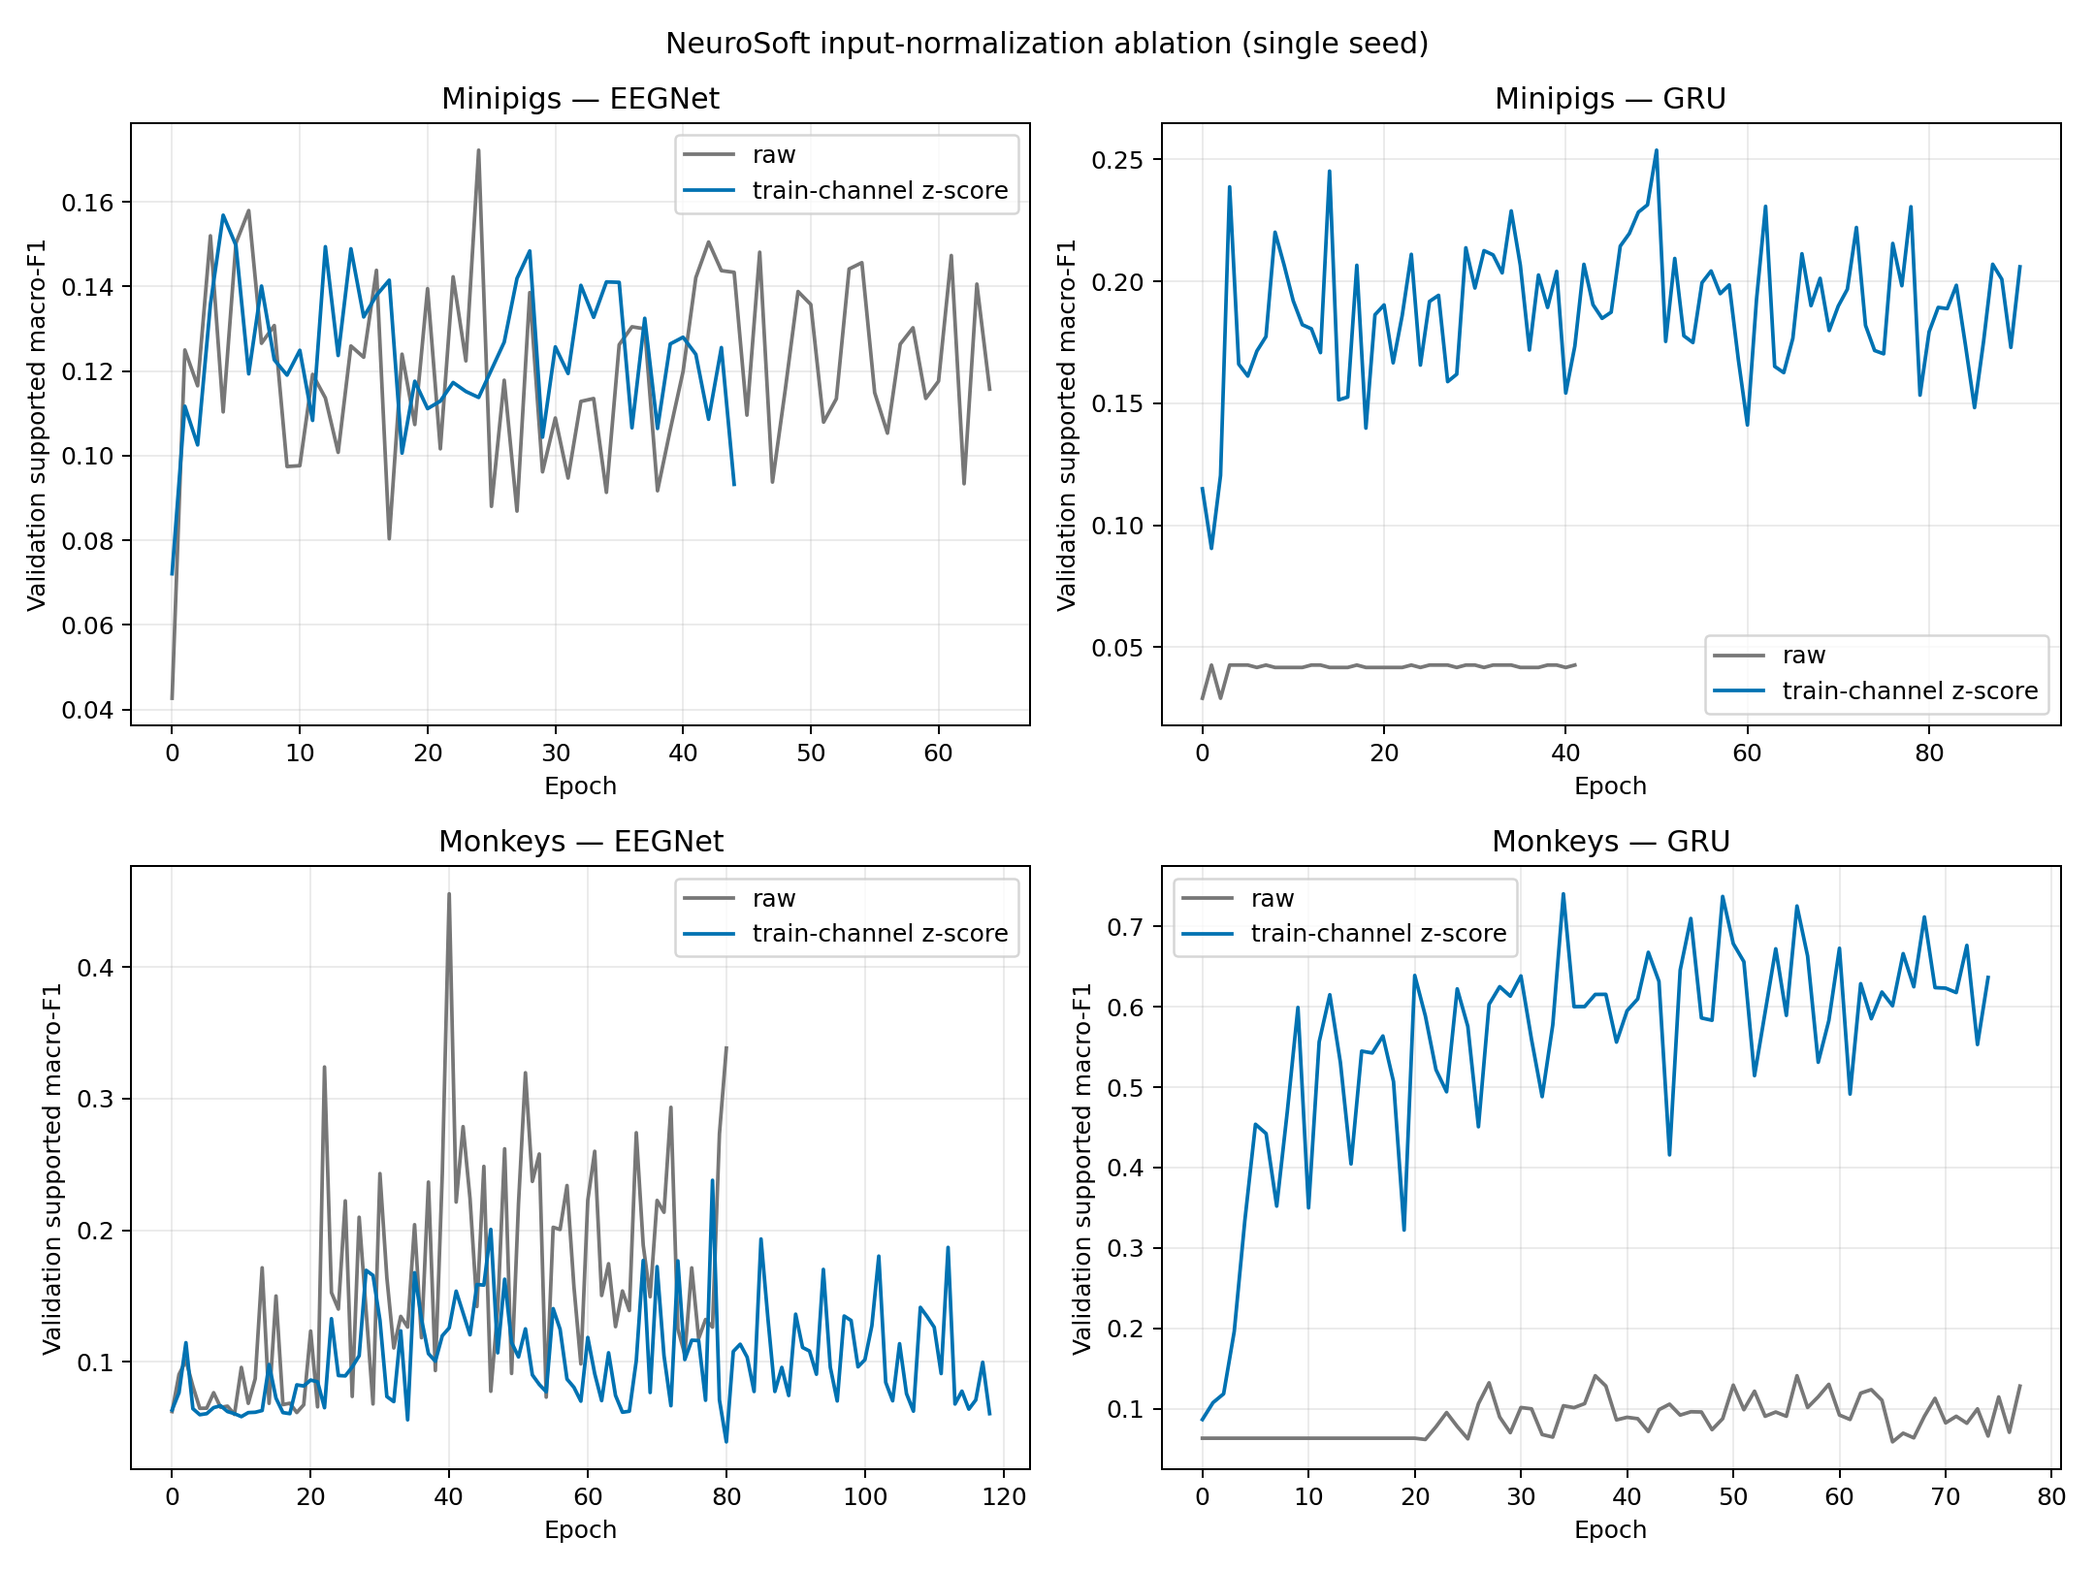
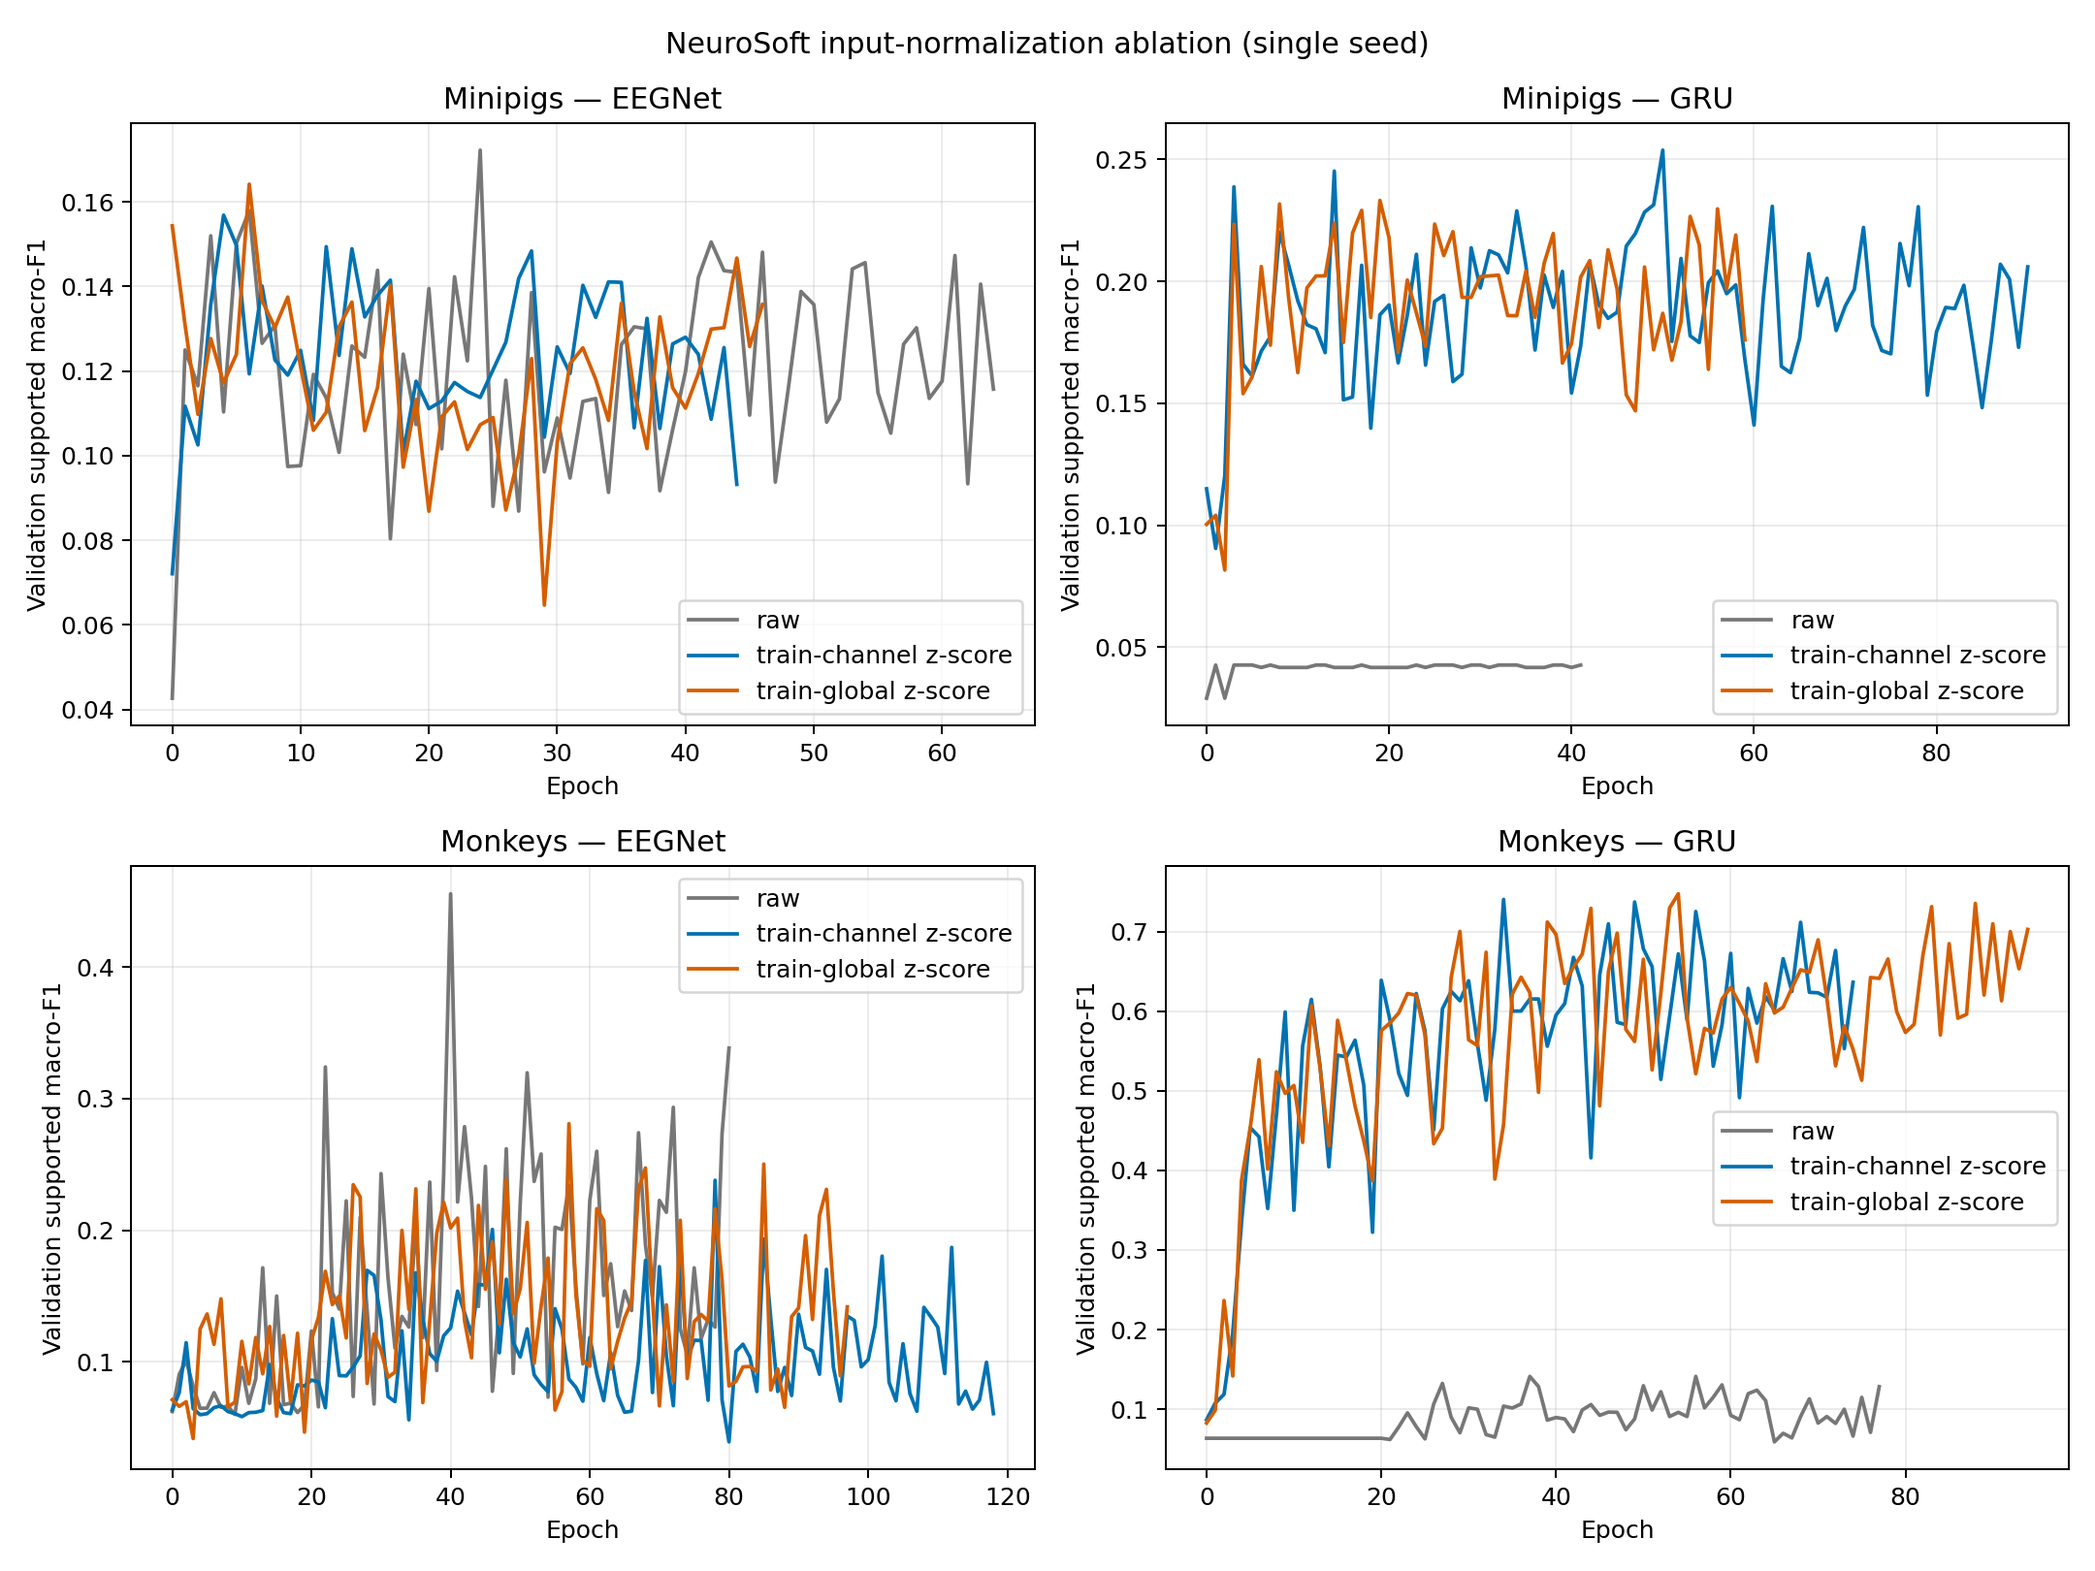
Plan phase 3 normalization seed replication

diff --git a/analysis/20260901-MS-neurosoft-input-normalization-replication_analysis.py b/analysis/20260901-MS-neurosoft-input-normalization-replication_analysis.py
@@ -1,0 +1,211 @@
+"""Analyze the three-seed NeuroSoft input-normalization replication.
+
+Fetches the completed seed-42 screen and the Phase-3 seed-43/44 replication
+from WandB, then writes run-level and three-seed summary CSVs plus an error-bar
+comparison figure.
+
+Usage:
+    uv run python analysis/20260901-MS-neurosoft-input-normalization-replication_analysis.py
+"""
+
+from __future__ import annotations
+
+from pathlib import Path
+from typing import Any
+
+import matplotlib
+
+matplotlib.use("Agg")
+import matplotlib.pyplot as plt
+import pandas as pd
+import wandb
+
+from _wandb_utils import csv_dir, default_entity, figures_dir
+
+
+PREFIX = "20260901-MS-neurosoft-input-normalization-replication"
+PROJECT = "neurosoft_supervised_pretraining"
+GROUPS = (
+    "PHASE2_INPUT_NORMALIZATION_ABLATION",
+    "PHASE3_INPUT_NORMALIZATION_REPLICATION",
+)
+TASK = "neurosoft_acoustic_stim_8band"
+MONITOR = f"val/{TASK}_supported_f1"
+SEEDS = {42, 43, 44}
+NORMALIZATION_MODES = (
+    "disabled",
+    "recording_train_channel_zscore",
+    "recording_train_global_zscore",
+)
+MODE_LABELS = {
+    "disabled": "raw",
+    "recording_train_channel_zscore": "train-channel z-score",
+    "recording_train_global_zscore": "train-global z-score",
+}
+
+
+def nested_or_flat(config: dict[str, Any], *keys: str) -> Any:
+    """Read a config key from nested or dotted W&B config data."""
+    dotted = ".".join(keys)
+    if dotted in config:
+        return config[dotted]
+    value: Any = config
+    for key in keys:
+        if not isinstance(value, dict):
+            return None
+        value = value.get(key)
+    return value
+
+
+def model_label(config: dict[str, Any]) -> str:
+    """Return the study's compact model label."""
+    target = str(nested_or_flat(config, "model", "_target_") or "")
+    if target.endswith("EEGNetEncoder"):
+        return "EEGNet"
+    if target.endswith((".GRU", ".NeurosoftConvBiGRU")):
+        return "GRU"
+    return target.rsplit(".", maxsplit=1)[-1] or "unknown"
+
+
+def best_validation(history: pd.DataFrame) -> tuple[float, int]:
+    """Return the best monitor value and its epoch from a run history."""
+    curve = history.dropna(subset=[MONITOR]).copy()
+    curve[MONITOR] = pd.to_numeric(curve[MONITOR], errors="coerce")
+    curve = curve.dropna(subset=[MONITOR])
+    if curve.empty:
+        raise RuntimeError(f"No values logged for {MONITOR!r}.")
+    best_index = curve[MONITOR].idxmax()
+    return float(curve.loc[best_index, MONITOR]), int(
+        curve.loc[best_index, "epoch"]
+    )
+
+
+def collect(entity: str | None) -> pd.DataFrame:
+    """Fetch the 36 planned cells through the WandB API."""
+    api = wandb.Api()
+    entity = entity or api.default_entity
+    if not entity:
+        raise RuntimeError("Could not resolve WandB entity; set WANDB_ENTITY.")
+
+    rows: list[dict[str, Any]] = []
+    seen_run_ids: set[str] = set()
+    for group in GROUPS:
+        for run in api.runs(f"{entity}/{PROJECT}", filters={"group": group}):
+            if run.id in seen_run_ids:
+                continue
+            seen_run_ids.add(run.id)
+            config = dict(run.config)
+            normalization = nested_or_flat(
+                config, "data", "input_normalization", "mode"
+            )
+            seed = nested_or_flat(config, "run", "seed")
+            if normalization not in NORMALIZATION_MODES or seed not in SEEDS:
+                continue
+            history = run.history(keys=["epoch", MONITOR], samples=10_000)
+            best_f1, best_epoch = best_validation(history)
+            rows.append(
+                {
+                    "run_id": run.id,
+                    "run_name": run.name,
+                    "wandb_group": group,
+                    "state": run.state,
+                    "species": nested_or_flat(config, "data", "audit_species"),
+                    "model": model_label(config),
+                    "normalization": normalization,
+                    "seed": int(seed),
+                    "best_val_supported_f1": best_f1,
+                    "best_epoch": best_epoch,
+                    "normalization_stats_sha256": dict(run.summary).get(
+                        "input_normalization/stats_sha256"
+                    ),
+                }
+            )
+
+    table = pd.DataFrame(rows)
+    if table.empty:
+        raise RuntimeError("No input-normalization replication runs found.")
+    duplicates = table.duplicated(
+        subset=["species", "model", "normalization", "seed"], keep=False
+    )
+    if duplicates.any():
+        raise RuntimeError(
+            "Found duplicate runs for planned cells:\n"
+            + table.loc[duplicates].to_string(index=False)
+        )
+    return table.sort_values(["species", "model", "normalization", "seed"])
+
+
+def summarize(table: pd.DataFrame) -> pd.DataFrame:
+    """Summarize F1 across the three fixed seeds for every condition."""
+    return (
+        table.groupby(["species", "model", "normalization"], as_index=False)
+        .agg(
+            n_seeds=("seed", "nunique"),
+            mean_val_supported_f1=("best_val_supported_f1", "mean"),
+            std_val_supported_f1=("best_val_supported_f1", "std"),
+        )
+        .sort_values(["species", "model", "normalization"])
+    )
+
+
+def plot_summary(summary: pd.DataFrame, output: Path) -> None:
+    """Plot mean plus sample standard deviation for each comparison cell."""
+    species = ("minipigs", "monkeys")
+    models = ("EEGNet", "GRU")
+    colors = {
+        "disabled": "#777777",
+        "recording_train_channel_zscore": "#0072B2",
+        "recording_train_global_zscore": "#D55E00",
+    }
+    fig, axes = plt.subplots(2, 2, figsize=(12, 8), sharey=False)
+    for row, species_name in enumerate(species):
+        for column, model in enumerate(models):
+            axis = axes[row, column]
+            subset = (
+                summary[
+                    (summary.species == species_name) & (summary.model == model)
+                ]
+                .set_index("normalization")
+                .reindex(NORMALIZATION_MODES)
+            )
+            x_values = range(len(NORMALIZATION_MODES))
+            axis.bar(
+                x_values,
+                subset.mean_val_supported_f1,
+                yerr=subset.std_val_supported_f1.fillna(0.0),
+                capsize=5,
+                color=[colors[mode] for mode in NORMALIZATION_MODES],
+            )
+            axis.set(
+                title=f"{species_name.title()} — {model}",
+                xticks=list(x_values),
+                xticklabels=[MODE_LABELS[mode] for mode in NORMALIZATION_MODES],
+                ylabel="Best validation supported macro-F1",
+            )
+            axis.tick_params(axis="x", labelrotation=18)
+            axis.grid(axis="y", alpha=0.25)
+    fig.suptitle("NeuroSoft input-normalization replication (mean ± sample SD)")
+    fig.tight_layout()
+    fig.savefig(output, dpi=180)
+
+
+def main() -> None:
+    table = collect(default_entity())
+    summary = summarize(table)
+    csv_root = csv_dir(__file__)
+    runs_csv = csv_root / f"{PREFIX}_runs.csv"
+    summary_csv = csv_root / f"{PREFIX}_summary.csv"
+    figure_path = figures_dir(__file__) / f"{PREFIX}_summary.png"
+    table.to_csv(runs_csv, index=False)
+    summary.to_csv(summary_csv, index=False)
+    plot_summary(summary, figure_path)
+
+    print("Three-seed validation supported macro-F1 summary:")
+    print(summary.to_string(index=False))
+    print(f"\nRun CSV: {runs_csv}")
+    print(f"Summary CSV: {summary_csv}")
+    print(f"Figure: {figure_path}")
+
+
+if __name__ == "__main__":
+    main()

diff --git a/experiments/inbox/20260901-MS-neurosoft-input-normalization-replication.md b/experiments/inbox/20260901-MS-neurosoft-input-normalization-replication.md
@@ -1,0 +1,104 @@
+# Phase 3 -- NeuroSoft Input-Normalization Seed Replication
+
+**Status:** Draft
+**Date started:** 2026-09-01
+**Parent experiment:** [NeuroSoft Input Normalization Recovery Ablation](20260831-MS-neurosoft-input-normalization-ablation.md)
+**Follow-up experiments:** TBD
+**Tags:** neurosoft, input-normalization, eegnet, convolution-bigru, replication, seeds, intrasession-causal
+
+## Background
+
+The parent [single-seed normalization ablation](20260831-MS-neurosoft-input-normalization-ablation.md) completed the 12-cell comparison at seed 42: two species, EEGNet and Conv--BiGRU (GRU), and raw, train-channel-z-score, and train-global-z-score inputs. Global z-scoring recovered the GRU in both species and improved EEGNet relative to channel-wise normalization, but the evidence is a single seed and cannot establish that these rankings are stable.
+
+This phase fills the two missing seeds in the predeclared three-seed protocol. It repeats every seed-42 cell without changing data, split, optimizer, model capacity, precision, or early-stopping criterion. Together with the completed seed-42 cells, it will yield a balanced 2 species x 2 models x 3 normalization modes x 3 seeds validation-only comparison.
+
+## Question
+
+Across seeds 42, 43, and 44, do the relative effects of train-global and train-channel z-scoring on validation supported macro-F1 replicate for EEGNet and GRU in both representative causal sessions?
+
+## Hypothesis
+
+The three-seed mean will preserve the seed-42 ordering: both z-score modes will materially improve GRU over raw input, global z-scoring will match or exceed channel-wise z-scoring for monkey GRU, and global z-scoring will exceed channel-wise z-scoring for EEGNet while remaining below raw EEGNet. Replication failure will be indicated by a reversed mean ordering or by effects that are inconsistent across the two added seeds.
+
+## Experiment
+
+### Setup
+
+- **Models:** `EEGNetEncoder` and `NeurosoftConvBiGRU` (GRU), trained from scratch.
+- **Data:** The parent experiment's audited, 8-band, full-data `intrasession-causal` sessions: minipig `sub-06_ses-02_task-AcousStim_acq-LH_desc-raw` and monkey `sub-01_ses-04_task-AcousStim_acq-RH_desc-raw`.
+- **Independent variables:** `run.seed` in `{43, 44}` and `data.input_normalization.mode` in `{disabled, recording_train_channel_zscore, recording_train_global_zscore}`. Model and species are retained as balanced comparison factors.
+- **Controls:** Parent Hydra configs, batch size 16, learning rate 0.0015, weight decay 0.018, 0.5 s windows, 200 maximum epochs, patience 40, unweighted cross-entropy, and `bf16-mixed` precision are unchanged. Normalization statistics remain fit only on each recording's causal-training partition.
+- **Scope:** 24 new cells: 2 species x 2 models x 3 normalization modes x 2 missing seeds. Combined with the completed 12 seed-42 cells, this produces 36 validation-only runs.
+- **Primary metric:** Per-run best `val/neurosoft_acoustic_stim_8band_supported_f1`, summarized by species, model, and normalization mode as the three-seed mean and sample standard deviation. Curves are supporting evidence only.
+- **Test discipline:** `run.evaluate_test=false`; no held-out test evaluation is consumed.
+- **WandB:** project `neurosoft_supervised_pretraining`, group `PHASE3_INPUT_NORMALIZATION_REPLICATION`. Seed-42 parent runs remain in `PHASE2_INPUT_NORMALIZATION_ABLATION` and are included only by the Phase-3 analysis script.
+
+### Launch command
+
+Commit the Phase-3 record, confirm the repository is clean, set a shared snapshot root, and launch one 12-cell multirun per species. The existing configs are reused; no Phase-3 config duplication is required.
+
+```bash
+git status --short  # must print nothing
+export FOUNDRY_SNAPSHOT_ROOT=/network/scratch/s/sobralm/foundry-launches
+
+python main.py \
+  experiment=auditory_decoding/neurosoft_input_normalization_ablation_minipigs \
+  normalization_ablation_recording_id=sub-06_ses-02_task-AcousStim_acq-LH_desc-raw \
+  model=eegnet,neurosoft_conv_bigru \
+  data.input_normalization.mode=disabled,recording_train_channel_zscore,recording_train_global_zscore \
+  run.seed=43,44 \
+  run.group=PHASE3_INPUT_NORMALIZATION_REPLICATION \
+  hydra/launcher=local_gpu \
+  -m
+
+python main.py \
+  experiment=auditory_decoding/neurosoft_input_normalization_ablation_monkeys \
+  normalization_ablation_recording_id=sub-01_ses-04_task-AcousStim_acq-RH_desc-raw \
+  model=eegnet,neurosoft_conv_bigru \
+  data.input_normalization.mode=disabled,recording_train_channel_zscore,recording_train_global_zscore \
+  run.seed=43,44 \
+  run.group=PHASE3_INPUT_NORMALIZATION_REPLICATION \
+  hydra/launcher=local_gpu \
+  -m
+```
+
+Record the two snapshot bundle paths and the 24 WandB run names and IDs here after the launchers return.
+
+### Key config overrides
+
+- Reuses `configs/experiment/auditory_decoding/neurosoft_input_normalization_ablation_{minipigs,monkeys}.yaml`.
+- Sweeps the three existing input-normalization modes and only the missing seeds, `43,44`.
+- Overrides `run.group=PHASE3_INPUT_NORMALIZATION_REPLICATION` to keep the replication runs distinct while preserving the existing run-name interpolation.
+- Keeps `run.evaluate_test=false` and all recovery-recipe hyperparameters unchanged.
+
+## Results
+
+### Summary
+
+TBD
+
+### Metrics
+
+TBD
+
+### Analysis
+
+After all 24 Phase-3 cells complete, reproduce the combined 36-run table and figure with:
+
+```bash
+uv run python analysis/20260901-MS-neurosoft-input-normalization-replication_analysis.py
+```
+
+### Figures
+
+TBD
+
+## Conclusions
+
+TBD
+
+## Notes for future experiments
+
+- Treat the three-seed comparison as evidence for the two selected representative sessions, not as a population-level species estimate.
+- Inspect both the mean and per-seed ordering before choosing a normalization mode for a later test-set evaluation.
+- Preserve each run's normalization-statistics SHA-256 to document train-only fitting across all seeds.

diff --git a/experiments/inbox/20260831-MS-neurosoft-input-normalization-ablation.md b/experiments/inbox/20260831-MS-neurosoft-input-normalization-ablation.md
@@ -3,7 +3,7 @@
 **Status:** In Progress
 **Date started:** 2026-08-31
 **Parent experiment:** [Phase 2 -- Convolution--BiGRU Recipe Recovery](20260831-MS-neurosoft-conv-bigru-recipe-recovery.md)
-**Follow-up experiments:** TBD
+**Follow-up experiments:** [Phase 3 -- NeuroSoft Input-Normalization Seed Replication](20260901-MS-neurosoft-input-normalization-replication.md)
 **Tags:** neurosoft, input-normalization, eegnet, convolution-bigru, recovery, ablation, intrasession-causal
 
 ## Background
